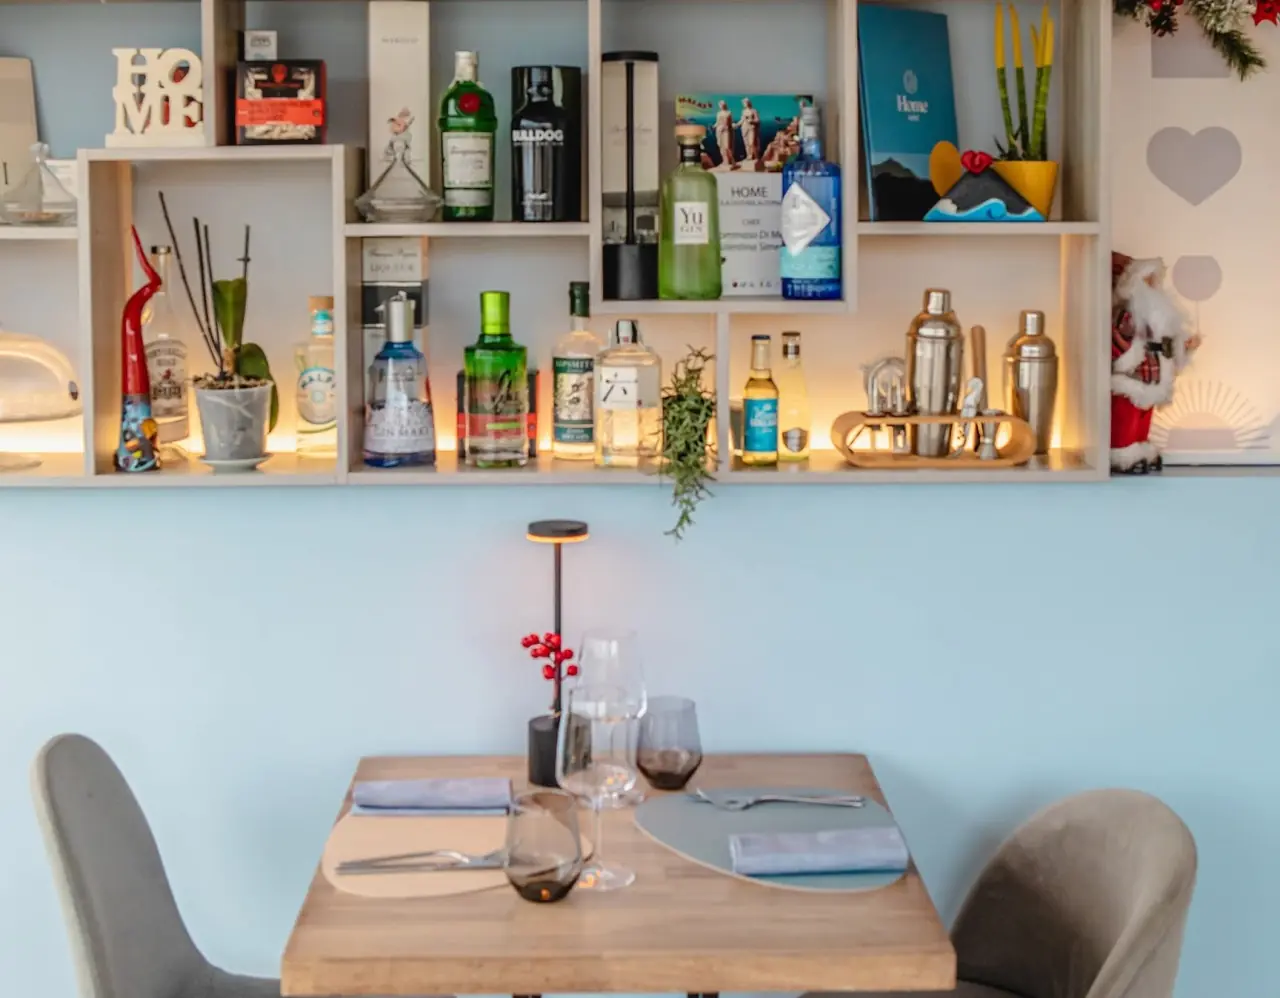
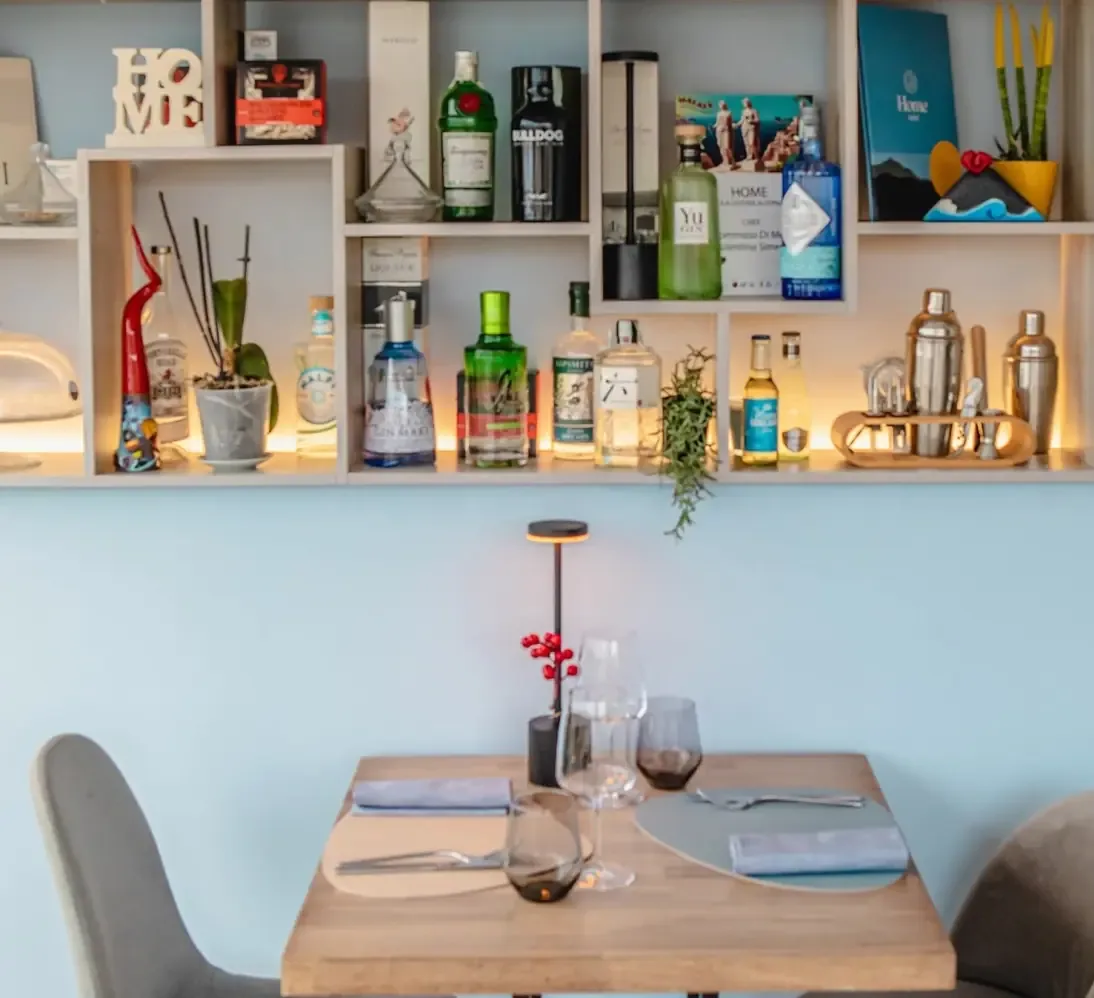
Osteria v2: foto senza decorazione natalizia, bolla chat piu alta

diff --git a/home-piccola-osteria-bacoli-v2/index.html b/home-piccola-osteria-bacoli-v2/index.html
@@ -17,7 +17,7 @@
 <meta property="og:image" content="https://andreachiacchio.github.io/demo-sitogiapronto/home-piccola-osteria-bacoli-v2/og.jpg"><meta property="og:image:width" content="1200"><meta property="og:image:height" content="630">
 <meta name="twitter:card" content="summary_large_image">
 <link rel="icon" href="favicon.svg" type="image/svg+xml">
-<link rel="preload" href="fonts/fraunces.woff2" as="font" type="font/woff2" crossorigin><link rel="preload" href="fonts/inter.woff2" as="font" type="font/woff2" crossorigin><link rel="preload" href="fonts/bricolage.woff2" as="font" type="font/woff2" crossorigin><link rel="preload" as="image" href="img/hero-1280.webp" imagesrcset="img/hero-800.webp 800w, img/hero-1280.webp 1280w, img/hero-1600.webp 1600w" imagesizes="100vw">
+<link rel="preload" href="fonts/fraunces.woff2" as="font" type="font/woff2" crossorigin><link rel="preload" href="fonts/inter.woff2" as="font" type="font/woff2" crossorigin><link rel="preload" href="fonts/bricolage.woff2" as="font" type="font/woff2" crossorigin><link rel="preload" as="image" href="img/hero-1280.webp" imagesrcset="img/hero-800.webp 684w, img/hero-1280.webp 1094w, img/hero-1600.webp 1368w" imagesizes="100vw">
 <link rel="stylesheet" href="style.css"><link rel="stylesheet" href="fx3d.css">
 <script type="application/ld+json">{"@context": "https://schema.org", "@type": "Restaurant", "@id": "https://andreachiacchio.github.io/demo-sitogiapronto/home-piccola-osteria-bacoli-v2/#attivita", "name": "Home Piccola Osteria Alternativa", "description": "Osteria dai sapori semplici e tradizionali, dove il gusto spazia tra terra e mare, tra storia e innovazione. Home è sentirsi a casa.\n\nSiamo in Via Virgilio, 142, a Bacoli. Su Google ci date 4,8 stelle su 170 recensioni: grazie, e scusate se ci montiamo un po' la testa.\n\nPer prenotare scriveteci su W", "url": "https://andreachiacchio.github.io/demo-sitogiapronto/home-piccola-osteria-bacoli-v2/", "telephone": "+393383132601", "address": {"@type": "PostalAddress", "streetAddress": "Via Virgilio, 142", "postalCode": "80070", "addressLocality": "Bacoli", "addressRegion": "NA", "addressCountry": "IT"}, "hasMap": "https://www.google.com/maps/search/?api=1&query=Home%20Piccola%20Osteria%20Alternativa%20di%20Tommaso%20Di%20Meo%20e%20Valentina%20Simeoli%2C%20Via%20Virgilio%2C%20142%2C%2080070%20Bacoli", "openingHoursSpecification": [{"@type": "OpeningHoursSpecification", "dayOfWeek": "https://schema.org/Monday", "opens": "16:30", "closes": "24:00"}, {"@type": "OpeningHoursSpecification", "dayOfWeek": "https://schema.org/Tuesday", "opens": "12:00", "closes": "16:00"}, {"@type": "OpeningHoursSpecification", "dayOfWeek": "https://schema.org/Tuesday", "opens": "18:30", "closes": "24:00"}, {"@type": "OpeningHoursSpecification", "dayOfWeek": "https://schema.org/Thursday", "opens": "16:30", "closes": "24:00"}, {"@type": "OpeningHoursSpecification", "dayOfWeek": "https://schema.org/Friday", "opens": "12:00", "closes": "16:00"}, {"@type": "OpeningHoursSpecification", "dayOfWeek": "https://schema.org/Friday", "opens": "18:30", "closes": "24:00"}, {"@type": "OpeningHoursSpecification", "dayOfWeek": "https://schema.org/Saturday", "opens": "12:00", "closes": "18:00"}, {"@type": "OpeningHoursSpecification", "dayOfWeek": "https://schema.org/Saturday", "opens": "18:30", "closes": "24:00"}, {"@type": "OpeningHoursSpecification", "dayOfWeek": "https://schema.org/Sunday", "opens": "12:00", "closes": "17:00"}], "areaServed": "Bacoli, Bacoli", "image": ["https://andreachiacchio.github.io/demo-sitogiapronto/home-piccola-osteria-bacoli-v2/og.jpg"]}</script>
 </head>
@@ -26,7 +26,7 @@
 <header class="topbar"><div class="topbar-in"><a class="logo" href="#top">Home Piccola Osteria Alternativa</a><nav class="nav"><a href="#chi-siamo">Chi siamo</a><a href="#recensioni">Recensioni</a><a href="#orari">Orari</a></nav>
 <a class="top-call" href="tel:+393383132601"><svg viewBox="0 0 24 24" fill="currentColor" aria-hidden="true"><path d="M6.6 10.8a15.1 15.1 0 0 0 6.6 6.6l2.2-2.2c.3-.3.7-.4 1-.2 1.1.4 2.3.6 3.6.6.6 0 1 .4 1 1V20c0 .6-.4 1-1 1A17 17 0 0 1 3 4c0-.6.4-1 1-1h3.5c.6 0 1 .4 1 1 0 1.3.2 2.5.6 3.6.1.3 0 .7-.2 1z"/></svg><span>338 313 2601</span></a></div></header>
 <main>
-<section class="hero" data-fx="hero"><div class="hero-media" aria-hidden="false"><img src="img/hero-1600.webp" srcset="img/hero-800.webp 800w, img/hero-1280.webp 1280w, img/hero-1600.webp 1600w" sizes="100vw" width="1600" height="1248" alt="Home Piccola Osteria Alternativa, Osteria a Bacoli" fetchpriority="high"></div><div class="wrap hero-in">
+<section class="hero" data-fx="hero"><div class="hero-media" aria-hidden="false"><img src="img/hero-1600.webp" srcset="img/hero-800.webp 684w, img/hero-1280.webp 1094w, img/hero-1600.webp 1368w" sizes="100vw" width="1368" height="1248" alt="Home Piccola Osteria Alternativa, Osteria a Bacoli" fetchpriority="high"></div><div class="wrap hero-in">
 <span class="eyebrow">Osteria · Bacoli</span>
 <h1>Home Piccola Osteria Alternativa</h1>
 <p class="slogan">Alternativa a cosa? Venite a scoprirlo.</p>
@@ -41,7 +41,7 @@
 <div class="about-img reveal" style="--d:.1s"><img src="img/chi-siamo-1100.webp" srcset="img/chi-siamo-700.webp 700w, img/chi-siamo-1100.webp 1100w" sizes="(min-width:900px) 45vw, 100vw" width="1100" height="1363" alt="Chi siamo - Home Piccola Osteria Alternativa" loading="lazy" decoding="async"></div>
 </div></section><section class="section fx-locale" id="il-locale" data-fx="view"><div class="wrap fx-loc-grid">
 <div class="fx-loc-text reveal"><span class="eyebrow">Il locale</span><h2>Pareti color cielo, legno e bottiglie in bella vista</h2><p>Il locale è questo: un tavolo apparecchiato, una mensola piena di bottiglie e, sì, la scritta HOME. Per il resto venite a vederlo: le foto non rendono l&#x27;idea (e non profumano).</p></div>
-<div class="fx-loc-stage"><figure class="fx-frame"><img src="img/fx-locale-1400.webp" srcset="img/fx-locale-800.webp 800w, img/fx-locale-1400.webp 1400w" sizes="(min-width:900px) 60vw, 100vw" width="1400" height="1092" alt="Home Piccola Osteria Alternativa: tavolo apparecchiato davanti alla mensola con le bottiglie" loading="lazy" decoding="async"></figure><figure class="fx-float f1" aria-hidden="false"><img src="img/fx-det1-900.webp" srcset="img/fx-det1-500.webp 500w, img/fx-det1-900.webp 900w" sizes="(min-width:900px) 24vw, 40vw" width="900" height="439" alt="La mensola con le bottiglie di Home Piccola Osteria Alternativa" loading="lazy" decoding="async"></figure><figure class="fx-float f2" aria-hidden="false"><img src="img/fx-det2-900.webp" srcset="img/fx-det2-500.webp 500w, img/fx-det2-900.webp 900w" sizes="(min-width:900px) 24vw, 40vw" width="900" height="590" alt="Un tavolo apparecchiato per due" loading="lazy" decoding="async"></figure></div></div></section>
+<div class="fx-loc-stage"><figure class="fx-frame"><img src="img/fx-locale-1400.webp" srcset="img/fx-locale-800.webp 684w, img/fx-locale-1400.webp 1197w" sizes="(min-width:900px) 60vw, 100vw" width="1197" height="1092" alt="Home Piccola Osteria Alternativa: tavolo apparecchiato davanti alla mensola con le bottiglie" loading="lazy" decoding="async"></figure><figure class="fx-float f1" aria-hidden="false"><img src="img/fx-det1-900.webp" srcset="img/fx-det1-500.webp 500w, img/fx-det1-900.webp 900w" sizes="(min-width:900px) 24vw, 40vw" width="900" height="439" alt="La mensola con le bottiglie di Home Piccola Osteria Alternativa" loading="lazy" decoding="async"></figure><figure class="fx-float f2" aria-hidden="false"><img src="img/fx-det2-900.webp" srcset="img/fx-det2-500.webp 500w, img/fx-det2-900.webp 900w" sizes="(min-width:900px) 24vw, 40vw" width="900" height="590" alt="Un tavolo apparecchiato per due" loading="lazy" decoding="async"></figure></div></div></section>
 <section class="fx-stage" id="la-tavola" data-fx="stage" aria-label="La tavola"><div class="fx-sticky">
 <div class="fx-bgblur" aria-hidden="true"><img src="img/fx-tavola-600.webp" srcset="img/fx-tavola-600.webp 600w" sizes="50vw" width="600" height="744" alt="" loading="lazy" decoding="async"></div>
 <div class="fx-persp"><figure class="fx-card"><img src="img/fx-tavola-1000.webp" srcset="img/fx-tavola-600.webp 600w, img/fx-tavola-1000.webp 1000w" sizes="(min-width:900px) 40vw, 90vw" width="1000" height="1239" alt="Tavolo di Home Piccola Osteria Alternativa visto dall&#x27;alto, con piatti, bicchieri e una bottiglia di vino" loading="lazy" decoding="async"></figure></div>
@@ -67,7 +67,7 @@ Servizio curato e atmosfera accogliente. Consigliato per chi cerca qualcosa di d
 <div class="where reveal" style="--d:.1s"><div class="map"><iframe title="Mappa: Home Piccola Osteria Alternativa" src="https://maps.google.com/maps?q=Home%20Piccola%20Osteria%20Alternativa%20di%20Tommaso%20Di%20Meo%20e%20Valentina%20Simeoli%2C%20Via%20Virgilio%2C%20142%2C%2080070%20Bacoli&amp;z=16&amp;output=embed&amp;hl=it" loading="lazy" referrerpolicy="no-referrer-when-downgrade" allowfullscreen></iframe></div>
 <div class="where-in"><h3>Home Piccola Osteria Alternativa</h3><address>Via Virgilio, 142, 80070 Bacoli, NA<br><a href="tel:+393383132601">338 313 2601</a></address>
 <div class="row"><a class="btn" href="tel:+393383132601"><svg viewBox="0 0 24 24" fill="currentColor" aria-hidden="true"><path d="M6.6 10.8a15.1 15.1 0 0 0 6.6 6.6l2.2-2.2c.3-.3.7-.4 1-.2 1.1.4 2.3.6 3.6.6.6 0 1 .4 1 1V20c0 .6-.4 1-1 1A17 17 0 0 1 3 4c0-.6.4-1 1-1h3.5c.6 0 1 .4 1 1 0 1.3.2 2.5.6 3.6.1.3 0 .7-.2 1z"/></svg>Chiama ora</a><a class="btn line" href="https://www.google.com/maps/dir/?api=1&amp;destination=Home%20Piccola%20Osteria%20Alternativa%20di%20Tommaso%20Di%20Meo%20e%20Valentina%20Simeoli%2C%20Via%20Virgilio%2C%20142%2C%2080070%20Bacoli" target="_blank" rel="noopener"><svg viewBox="0 0 24 24" fill="currentColor" aria-hidden="true"><path d="M12 2a7 7 0 0 0-7 7c0 5.2 7 13 7 13s7-7.8 7-13a7 7 0 0 0-7-7zm0 9.5a2.5 2.5 0 1 1 0-5 2.5 2.5 0 0 1 0 5z"/></svg>Indicazioni</a></div></div></div></div></div></section>
-<script type="application/json" id="orari-data">{"lun": [["16:30", "24:00"]], "mar": [["12:00", "16:00"], ["18:30", "24:00"]], "mer": [], "gio": [["16:30", "24:00"]], "ven": [["12:00", "16:00"], ["18:30", "24:00"]], "sab": [["12:00", "18:00"], ["18:30", "24:00"]], "dom": [["12:00", "17:00"]]}</script><section data-fx="view" class="section final"><img src="img/hero-1600.webp" srcset="img/hero-800.webp 800w, img/hero-1280.webp 1280w, img/hero-1600.webp 1600w" sizes="100vw" width="1600" height="1248" alt="" loading="lazy" decoding="async"><div class="wrap reveal"><span class="eyebrow">Bacoli, Bacoli</span>
+<script type="application/json" id="orari-data">{"lun": [["16:30", "24:00"]], "mar": [["12:00", "16:00"], ["18:30", "24:00"]], "mer": [], "gio": [["16:30", "24:00"]], "ven": [["12:00", "16:00"], ["18:30", "24:00"]], "sab": [["12:00", "18:00"], ["18:30", "24:00"]], "dom": [["12:00", "17:00"]]}</script><section data-fx="view" class="section final"><img src="img/hero-1600.webp" srcset="img/hero-800.webp 684w, img/hero-1280.webp 1094w, img/hero-1600.webp 1368w" sizes="100vw" width="1368" height="1248" alt="" loading="lazy" decoding="async"><div class="wrap reveal"><span class="eyebrow">Bacoli, Bacoli</span>
 <h2>Un tavolo? Scriveteci</h2><p>Su WhatsApp o al 338 313 2601. Chiedete pure anche della terrazza: la risposta ve la dà chi c&#x27;è in sala.</p>
 <div class="hero-cta"><a class="btn" href="tel:+393383132601"><svg viewBox="0 0 24 24" fill="currentColor" aria-hidden="true"><path d="M6.6 10.8a15.1 15.1 0 0 0 6.6 6.6l2.2-2.2c.3-.3.7-.4 1-.2 1.1.4 2.3.6 3.6.6.6 0 1 .4 1 1V20c0 .6-.4 1-1 1A17 17 0 0 1 3 4c0-.6.4-1 1-1h3.5c.6 0 1 .4 1 1 0 1.3.2 2.5.6 3.6.1.3 0 .7-.2 1z"/></svg>Chiama ora</a><a class="btn wa" href="https://wa.me/393383132601?text=Buongiorno%20Home%20Piccola%20Osteria%20Alternativa%2C%20vi%20scrivo%20dal%20vostro%20sito%3A%20vorrei%20prenotare%20un%20tavolo.%20Avete%20posto%3F" target="_blank" rel="noopener"><svg viewBox="0 0 24 24" fill="currentColor" aria-hidden="true"><path d="M17.5 14.4c-.3-.1-1.8-.9-2-1-.3-.1-.5-.1-.7.1l-.9 1.2c-.2.2-.3.2-.6.1a8.2 8.2 0 0 1-4-3.5c-.3-.5.3-.5.9-1.6.1-.2 0-.4 0-.5l-.9-2.2c-.2-.6-.5-.5-.7-.5h-.6c-.2 0-.5.1-.8.4-.3.3-1 1-1 2.5s1.1 2.9 1.2 3.1c.2.2 2.1 3.2 5.1 4.5 1.9.8 2.6.9 3.6.7.6-.1 1.8-.7 2-1.4.3-.7.3-1.3.2-1.4l-.8-.5zM12 2a10 10 0 0 0-8.6 15l-1.4 5 5.1-1.3A10 10 0 1 0 12 2zm0 18.2c-1.6 0-3.1-.4-4.4-1.2l-.3-.2-3 .8.8-2.9-.2-.3A8.2 8.2 0 1 1 12 20.2z"/></svg>WhatsApp</a></div></div></section>
 </main>

diff --git a/home-piccola-osteria-bacoli-v2/chat.css b/home-piccola-osteria-bacoli-v2/chat.css
@@ -2,10 +2,10 @@
 .cb svg{width:22px;height:22px;flex:none}
 .cb span{max-width:46vw;overflow:hidden;text-overflow:ellipsis;white-space:nowrap}
 body:not(.cb-show) .cb{transform:translateY(160%);opacity:0;pointer-events:none}
-@media (max-width:899px){.cb{bottom:calc(max(12px,env(safe-area-inset-bottom)) + 76px);min-height:44px;font-size:.85rem;padding:0 14px 0 12px}}
+@media (max-width:899px){.cb{bottom:calc(max(12px,env(safe-area-inset-bottom)) + 96px);min-height:44px;font-size:.85rem;padding:0 14px 0 12px}}
 .cp{position:fixed;right:16px;bottom:84px;z-index:90;width:min(380px,calc(100vw - 24px));height:min(560px,calc(100svh - 120px));display:flex;flex-direction:column;background:var(--card);color:var(--ink);border:1px solid var(--line);border-radius:22px;box-shadow:0 30px 70px -20px rgba(0,0,0,.5);overflow:hidden;font:400 .95rem/1.45 var(--body)}
 .cp[hidden]{display:none}
-@media (max-width:899px){.cp{right:12px;left:12px;width:auto;bottom:calc(max(12px,env(safe-area-inset-bottom)) + 76px);height:min(540px,calc(100svh - 150px))}.chat-on .cb{opacity:0;pointer-events:none}}
+@media (max-width:899px){.cp{right:12px;left:12px;width:auto;bottom:calc(max(12px,env(safe-area-inset-bottom)) + 96px);height:min(540px,calc(100svh - 170px))}.chat-on .cb{opacity:0;pointer-events:none}}
 .ch{display:flex;align-items:center;gap:8px;padding:14px 16px;background:var(--accent);color:var(--on-accent)}
 .ch b{font:600 1.05rem/1.1 var(--display)}.ch span{font-size:.75rem;opacity:.85;margin-right:auto}
 .cx{width:34px;height:34px;border:0;border-radius:50%;background:rgba(255,255,255,.18);color:inherit;font-size:1.4rem;line-height:1;cursor:pointer}
